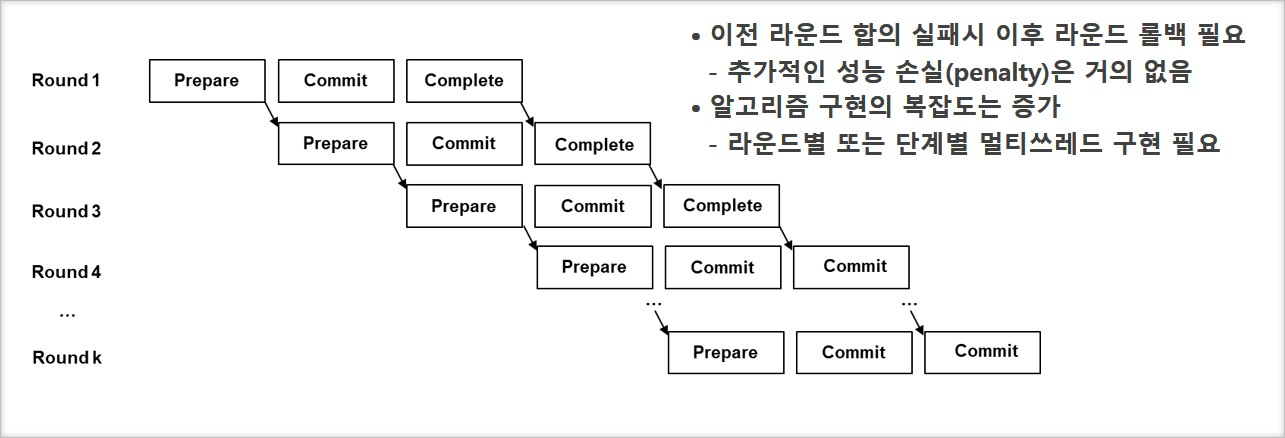
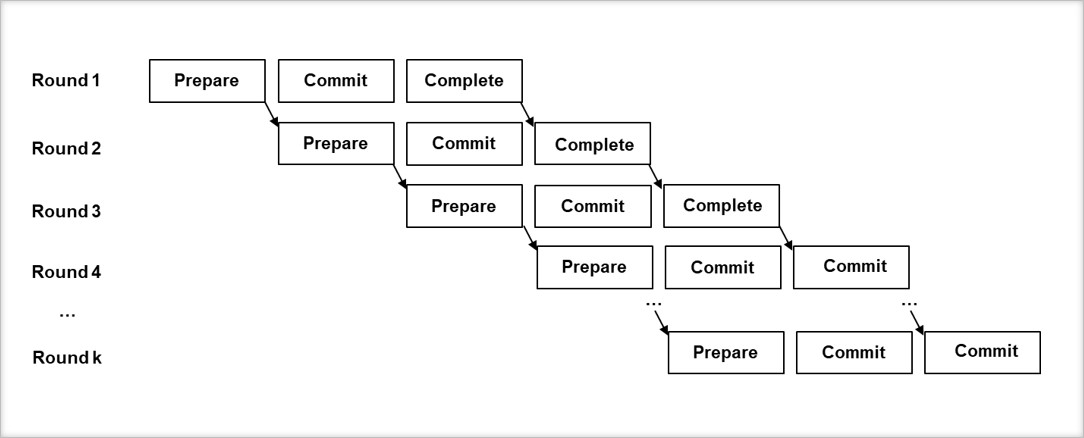
adjust README.md

diff --git a/README.md b/README.md
@@ -1,35 +1,40 @@
-# Sample implementation of various consensus algorithms
+# 블록체인 확장성 개선을 위한 위임형 비잔틴 합의 알고리즘
 
-## PBFT
-### Architecture
-#### Overall behavior (4 peers)
+## <b>PA-BFT(Parallel and Adaptive BFT)
 ![](./timer.jpg)
-Definitions of each abbreviation in the diagram are;
 
-* `m`: Request message object
-* `c`: Client ID
-* `t`: Timestamp
-* `v`: View ID
-* `n`: Sequence ID
-* `i`: Peer(Node) ID
-* `r`: Result of the request's operation
+## <b>Safety 및  Liveness
+#### Safety
+&nbsp;임의의 커미티 위원 i가 n번째 블록으로 블록 X를 결정한다면, 다른 임의의 커미티 위원 j가 n번째 블록으로 결정하는 블록은 항상 X임을 증명한다.</br>
+&nbsp;(귀류법) 커미티 위원 j가 n번째 블록으로 결정하는 블록을 Y라고 하고, Y는 X와 다르다고 하자. Y가 결정되려면 합의에 필요한 최소 쿼럼인 AQ = f – b + ⌈(n-f+1)/2⌉이상의 commit 메시지를 필요로 한다. AQ 이상의 커미티 위원 집합들은 항상 정상적인 커미티 위원을 교집합으로 가지므로, X에 대해 commit 메시지를 보낸 적어도 하나 이상의 정상적인 커미티 위원이 Y에 대해서도 commit 메시지를 보내야 한다. 정상적인 커미티 위원은 두 개의 블록에 대해 commit 메시지를 보낼 수 없으므로 모순에 도달한다.</br>
 
-##### Why `count >= 2` ?
-In the diagram, the peer change its state to `prepared` or `committed` when the `count` value, which is the number of verified messages from other peers, is larger than `2`.
-Actually, the condition is `count >= 2*f` where `f` is the maximum number of faulty peers, which the network can tolerate. In this case, `f` is just `1`, so the condition is `count >= 2`. 
+#### Liveness
+&nbsp;f개의 비정상적인 커미티 위원이 합의에 협조하지 않는 경우에도 정상적인 커미티 위원만으로 합의에 도달하는 것이 가능함을 증명한다.</br>
+&nbsp;(Case A. 블록 생성자가 비정상) 블록 생성자가 복수의 블록을 제안하거나, 하나의 블록도 제안하지 않는 경우 비잔틴 오류로 판명되어 뷰 체인지를 통해 항상 정상적인 블록 생성자로 교체하는 것이 가능하다.</br>
+&nbsp;(Case B. 블록 생성자가 정상) 최대 f개의 비정상적인 커미티 위원들이 복수의 블록에 commit 메시지를 보내거나, 어떤 commit 메시지도 보내지 않는 경우 모두 비잔틴 오류로 검출이 가능하다. 이 경우 AQ = ⌈(n-f+1)/2⌉이고, 이는 정상적인 커미티 위원들의 총 숫자보다 같거나 작으므로 항상 합의에 도달하는 것이 가능하다.</br>
 
-##### What is the reply message?
-Every node replies the result of the request's operation to the client individually. The client will collect these reply messages and if `f + 1` valid reply messages are arrived, the client will accept the result.
-In this sample implementation, there is no client. So, every node including the primary will return its reply message to the primary.
 
-#### Code structure of the implementation
+
+
+## <b>AQUA(Adaptive Quorum Algorithm)
+⦁ 런타임에 감지된 오류를 기반으로 합의 정족수를 동적으로 조정</br>
+⦁ 합의에 필요한 최소 정족수 AQ = f – b + ⌈ (n-f+1)/2 ⌉</br>
+&nbsp;&nbsp;&nbsp;- 위임인 숫자 n, 최대 오류 숫자 f, 비잔틴 오류 숫자 b</br>
+⦁ (효과) PBFT의 5단계를 3단계로 단축</br>
+⦁ (효과) 생기성 보장 및 비잔틴 오류에 대한 강인성</br></br>
 ![](./aqua.jpg)
 
-### Working Screenshot
+## <b>Status Diagram
 ![](./flow.jpg)
 
-### Working Screenshot
+## <b>PPE (Pipelined Parallel Execution)
+⦁ 낙관적·예측적(optimistic & speculative) 프로토콜 실행 기법</br>
+⦁ 현재 라운드 합의가 완료되기 전에 새로운 라운드를 개시(pipelining)</br>
+⦁ Digital Signature 및 Message Authentication Code 활용 방법 연구</br>
+⦁ (효과) 단위시간당 처리량 증가(처리시간에 무관)</br>
+⦁ (효과) 타 합의 알고리즘에도 적용이 용이</br></br>
+
 ![](./ppe.jpg)
 
-## License
+## <b>License
 Apache 2.0
